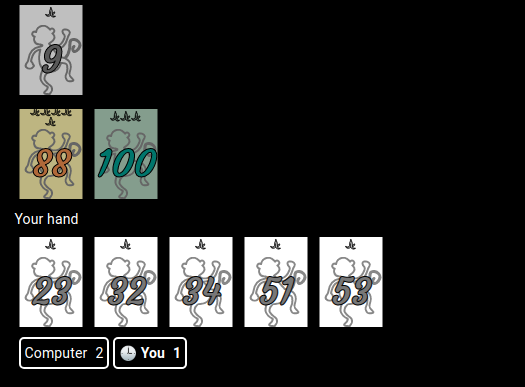
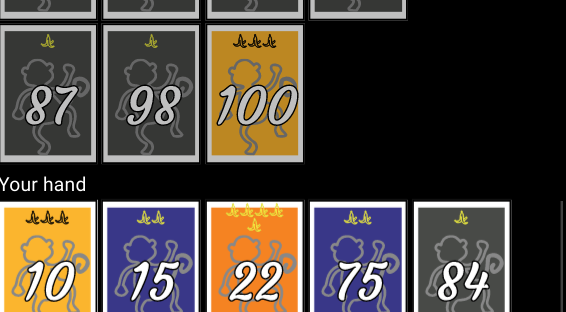
Updating thumbnail and wide scren support for takesix

diff --git a/web/src/games/takesix/board.tsx b/web/src/games/takesix/board.tsx
@@ -119,7 +119,7 @@ export class Board extends React.Component<IBoardProps, IBoardState> {
     }
 
     return (
-      <GameLayout gameArgs={this.props.gameArgs}>
+      <GameLayout gameArgs={this.props.gameArgs} allowWiderScreen={true}>
         <Typography variant="h5" style={{ textAlign: 'center', color: 'white', marginBottom: '16px' }}>
           {this._getStatus()}
         </Typography>
